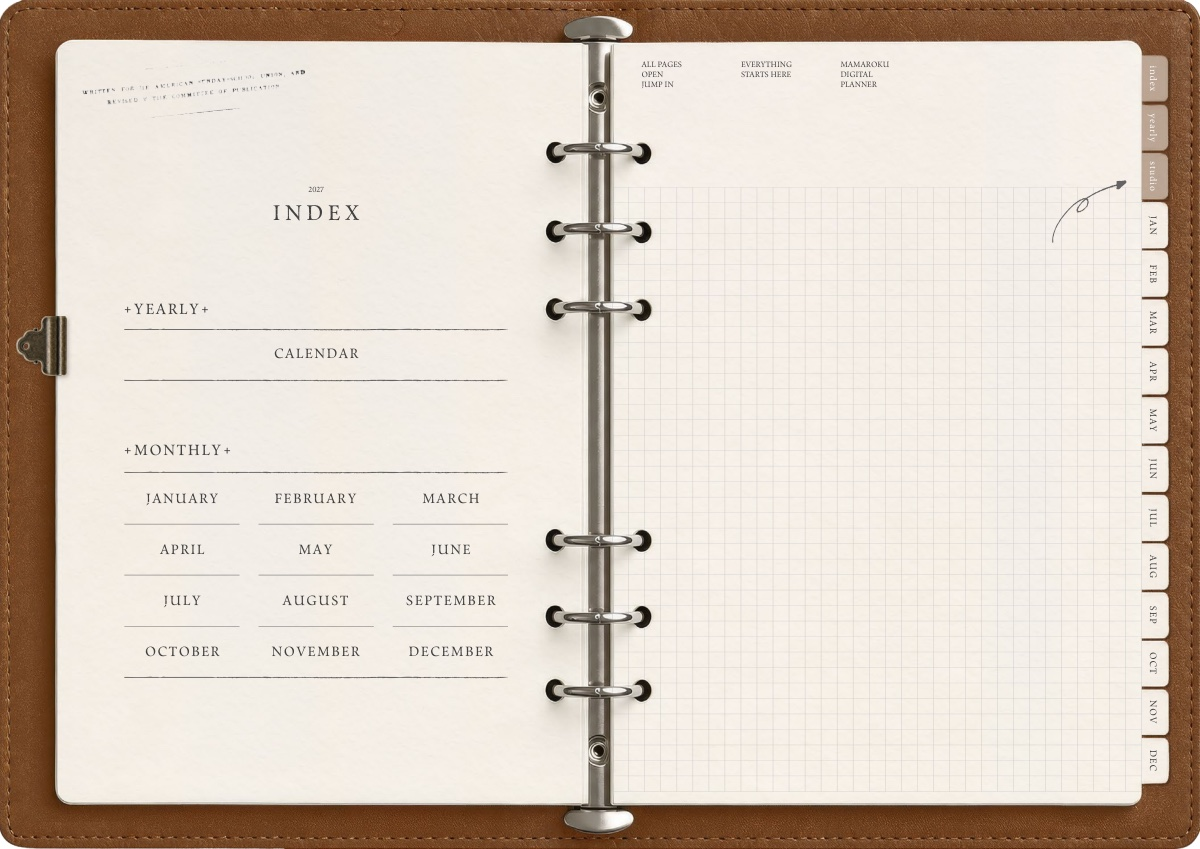
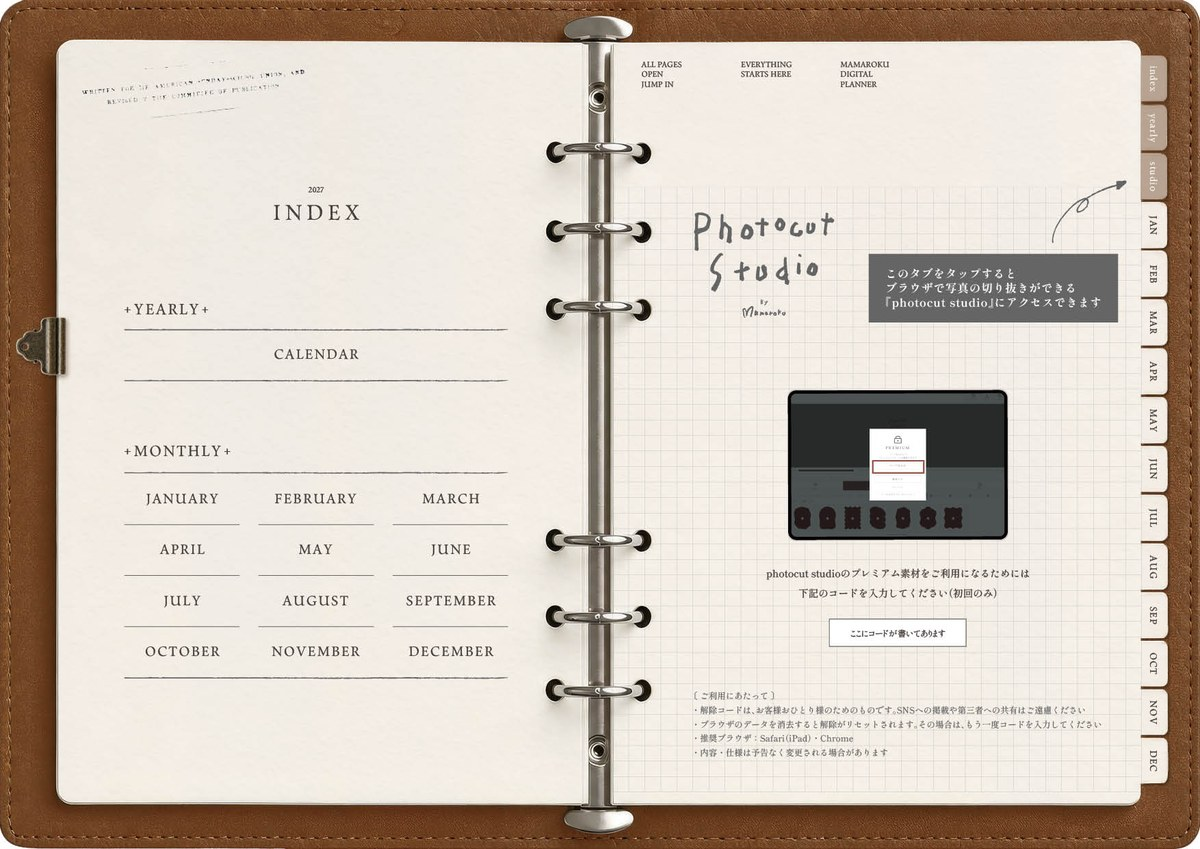
プランナーページの中身と表紙画像を更新
- planner-wood の「中身のこと」に Index / Yearly / My Bucket List を追加。
  本のページ順に合わせて月間の前に置いた（7項目→10項目）
- 目次の画像はリポジトリにあった未使用の index.jpg を使用。
  年間・やりたいことリストは書き出したPDFから新規作成
- LEATHER の表紙と INDEX の画像を差し替え

Claude-Session: https://claude.ai/code/session_018hMtk9oefPpECioLNjgLW7

diff --git a/planner-wood.html b/planner-wood.html
@@ -527,6 +527,27 @@ gtag('config', 'G-QBYGZ9TTWS');
 
     <div class="pages">
       <div class="page-card">
+        <img src="images/planner/index.jpg" width="900" height="642" alt="目次ページ（インデックス）" loading="lazy">
+        <p class="page-card__en">Index</p>
+        <h3 class="page-card__title">目次</h3>
+        <p class="page-card__desc"><span class="ln">どのページにも、ここから飛べます。</span><span class="ln">月や日付を押すだけ。</span><span class="ln">迷ったら、いつでもここに戻ってきてください。</span></p>
+      </div>
+
+      <div class="page-card">
+        <img src="images/planner/yearly.jpg" width="900" height="642" alt="年間カレンダーのページ" loading="lazy">
+        <p class="page-card__en">Yearly</p>
+        <h3 class="page-card__title">年間カレンダー</h3>
+        <p class="page-card__desc"><span class="ln">1年が1枚に収まっています。</span><span class="ln">先の予定を確かめたいときに。</span><span class="ln">日付を押すと、その日のページへ飛びます。</span></p>
+      </div>
+
+      <div class="page-card">
+        <img src="images/planner/bucketlist.jpg" width="900" height="642" alt="やりたいことリストのページ" loading="lazy">
+        <p class="page-card__en">My Bucket List</p>
+        <h3 class="page-card__title">やりたいことリスト</h3>
+        <p class="page-card__desc"><span class="ln">今年やってみたいことを、思いついたときに。</span><span class="ln">埋めなくても大丈夫です。</span><span class="ln">1年の終わりに見返すと、それだけで記録になります。</span></p>
+      </div>
+
+      <div class="page-card">
         <img src="images/planner/monthly.jpg" width="900" height="642" alt="月間ページ（マンスリー）" loading="lazy">
         <p class="page-card__en">Monthly</p>
         <h3 class="page-card__title">月間</h3>
